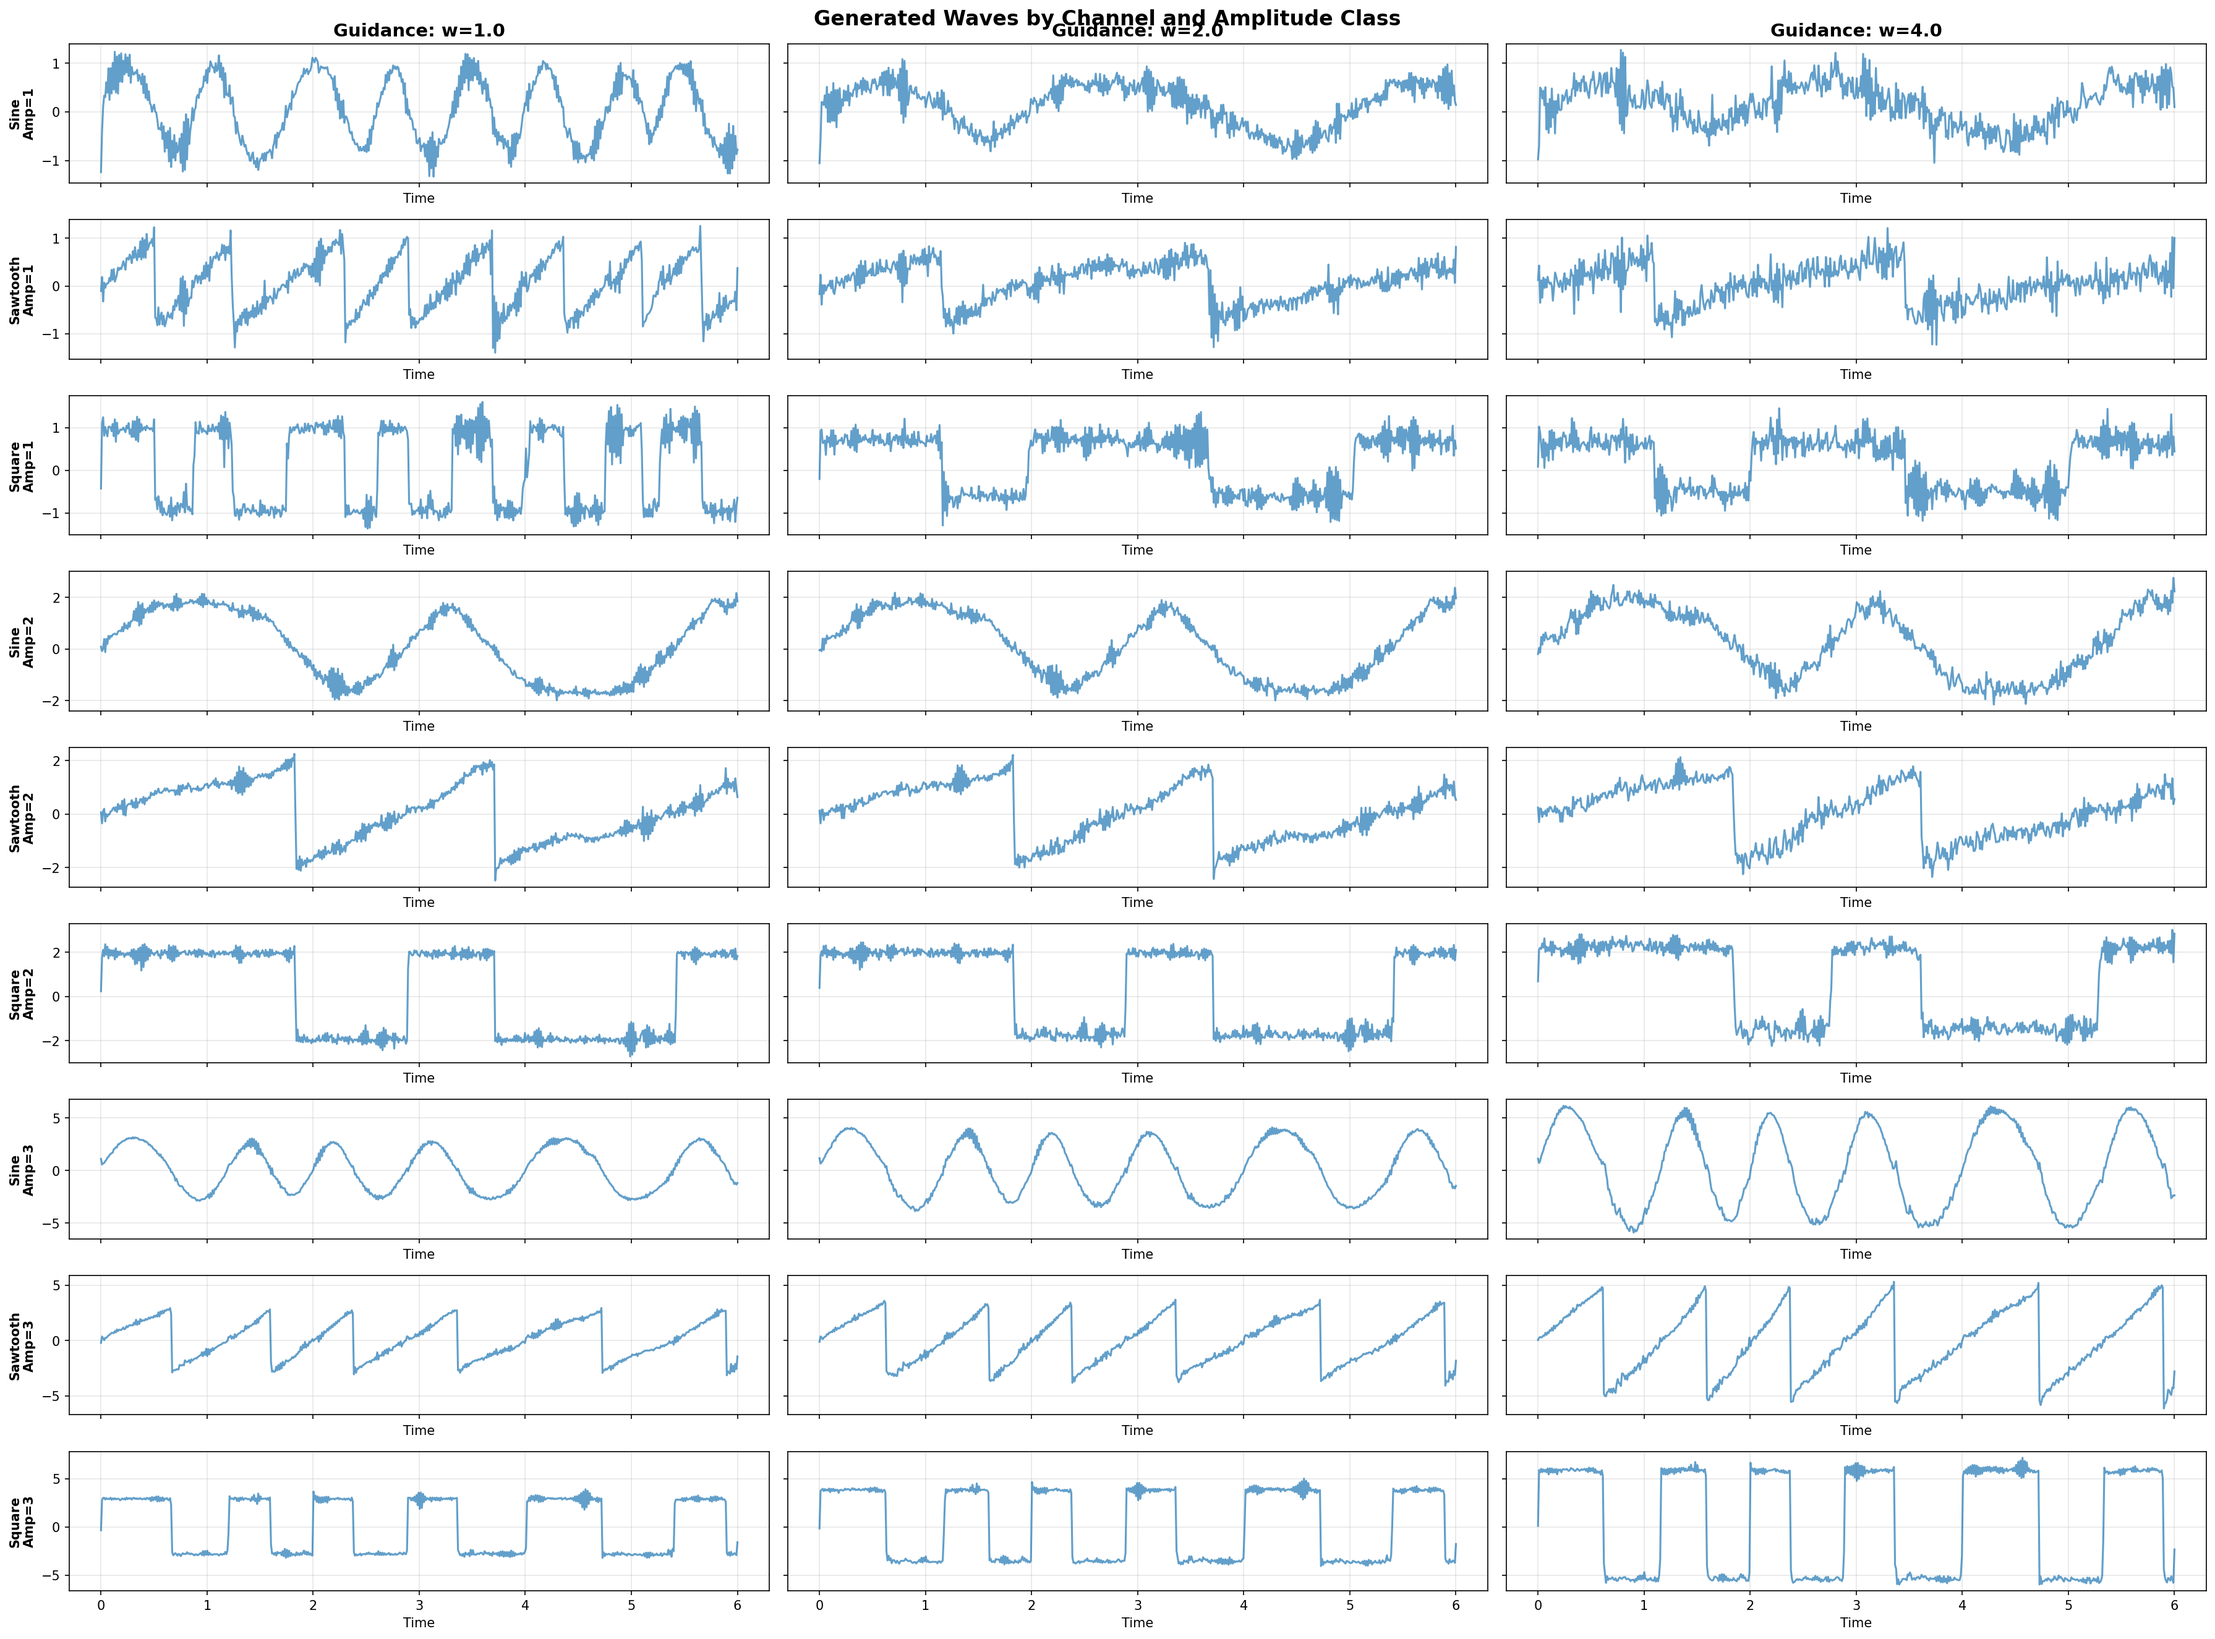
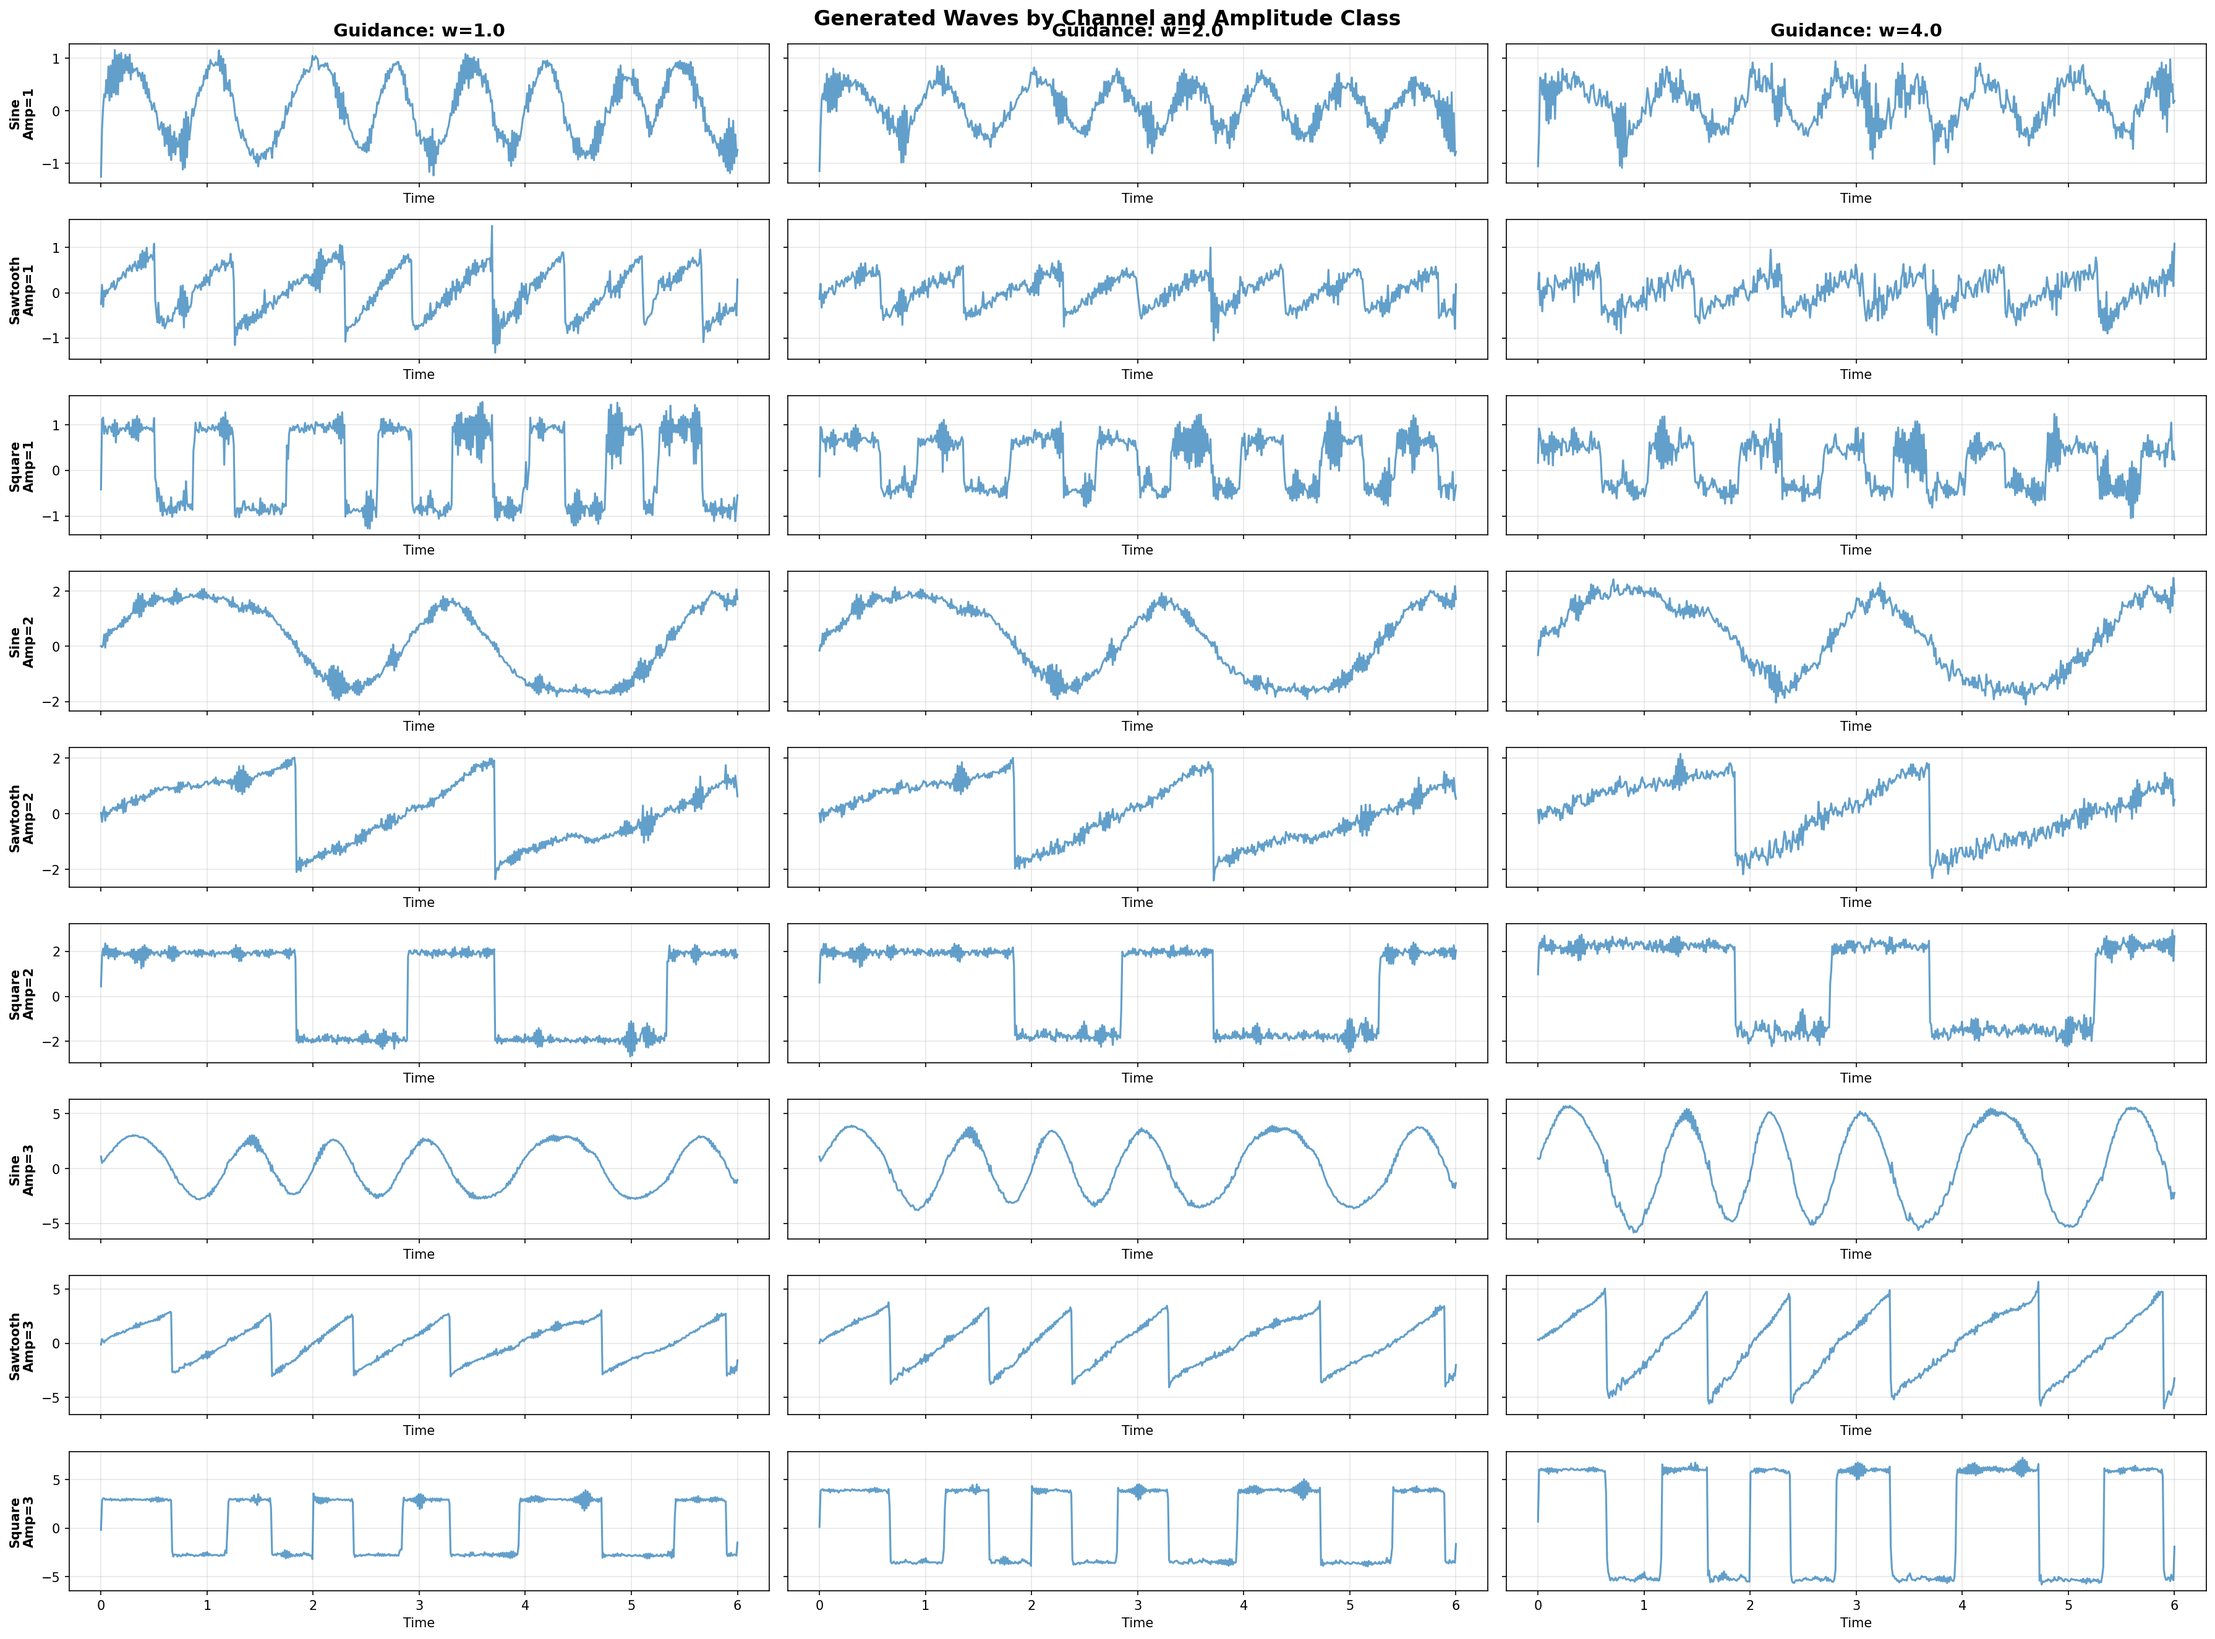
tested HAUNet on HAR dataset

diff --git a/src/diffusion_models/trainers.py b/src/diffusion_models/trainers.py
@@ -1,15 +1,15 @@
-import os
-from pathlib import Path
 from abc import ABC, abstractmethod
+from pathlib import Path
 
-import torch
 import matplotlib.pyplot as plt
+import torch
 from torch import nn
 from tqdm import tqdm
 
-from .utils.sizes import model_size_b, MiB
-from .dynamics.prob_paths import GaussianConditionalProbabilityPath
 from .dynamics.base import ConditionalVectorField
+from .dynamics.prob_paths import GaussianConditionalProbabilityPath
+from .utils.sizes import MiB, model_size_b
+
 
 class Trainer(ABC):
     def __init__(self, model: nn.Module):
@@ -23,15 +23,22 @@ class Trainer(ABC):
     def get_optimizer(self, lr: float):
         return torch.optim.Adam(self.model.parameters(), lr=lr)
 
-    def train(self, num_epochs: int, device: torch.device, lr: float = 1e-3, path: str = "training_loss.png", **kwargs) -> torch.Tensor:
+    def train(
+        self,
+        num_epochs: int,
+        device: torch.device,
+        lr: float = 1e-3,
+        path: str = "training_loss.png",
+        **kwargs,
+    ) -> torch.Tensor:
         # Report model size
         size_b = model_size_b(self.model)
-        print(f'Training model with size: {size_b / MiB:.3f} MiB')
+        print(f"Training model with size: {size_b / MiB:.3f} MiB")
 
         plot_dir = Path("loss_plots")
         plot_dir.mkdir(parents=True, exist_ok=True)
         plot_path = plot_dir / Path(path).name
-        
+
         # Start
         self.model.to(device)
         opt = self.get_optimizer(lr)
@@ -46,7 +53,7 @@ class Trainer(ABC):
             loss.backward()
             opt.step()
             losses.append(loss.item())
-            pbar.set_description(f'Epoch {idx}, loss: {loss.item():.3f}')
+            pbar.set_description(f"Epoch {idx}, loss: {loss.item():.3f}")
 
         # Finish
         self.model.eval()
@@ -56,13 +63,24 @@ class Trainer(ABC):
             plt.plot(losses)
             plt.xlabel("Step")
             plt.ylabel("Loss")
-            plt.yscale('log')
+            plt.yscale("log")
+            plt.grid(
+                True, which="both", alpha=0.3
+            )  # Add grid for both major and minor ticks
             plt.tight_layout()
             plt.savefig(plot_path)
             plt.close()
 
+
 class CFGTrainer(Trainer):
-    def __init__(self, path: GaussianConditionalProbabilityPath, model: ConditionalVectorField, eta: float, null_label, **kwargs):
+    def __init__(
+        self,
+        path: GaussianConditionalProbabilityPath,
+        model: ConditionalVectorField,
+        eta: float,
+        null_label,
+        **kwargs,
+    ):
         assert eta > 0 and eta < 1
         super().__init__(model, **kwargs)
         self.eta = eta
@@ -71,17 +89,69 @@ class CFGTrainer(Trainer):
 
     def get_train_loss(self, batch_size: int) -> torch.Tensor:
         # Step 1: Sample z,y from p_data
-        z, y = self.path.sample_conditioning_variable(batch_size) # z shape (batch_size, c, x_dim), y shape (batch_size, 1)
-        
+        z, y = self.path.sample_conditioning_variable(
+            batch_size
+        )  # z shape (batch_size, c, x_dim), y shape (batch_size, 1)
+
         # Step 2: Set each label to the null class with probability eta
         mask = torch.rand(batch_size) < self.eta
         y[mask] = self.null_label
-        
+
         # Step 3: Sample t and x
-        t = torch.rand((batch_size, )+ (1, ) * (z.ndim - 1)).to(z.device) # (batch_size, 1, x_dim)
-        x = self.path.sample_conditional_path(z, t) # (batch_size, c, x_dim)
+        t = torch.rand((batch_size,) + (1,) * (z.ndim - 1)).to(
+            z.device
+        )  # (batch_size, 1, x_dim)
+        x = self.path.sample_conditional_path(z, t)  # (batch_size, c, x_dim)
 
         # Step 4: Regress and output loss
-        u_t_theta = self.model(x, t, y) # (batch_size, c, x_dim)
-        u_t = self.path.conditional_vector_field(x, z, t) # (batch_size, c, x_dim)
+        u_t_theta = self.model(x, t, y)  # (batch_size, c, x_dim)
+        u_t = self.path.conditional_vector_field(x, z, t)  # (batch_size, c, x_dim)
         return torch.mean((u_t - u_t_theta) ** 2)
+
+    def train(
+        self,
+        num_epochs: int,
+        device: torch.device,
+        name: str,
+        lr: float = 1e-3,
+        **kwargs,
+    ) -> torch.Tensor:
+        # Report model size
+        size_b = model_size_b(self.model)
+        print(f"Training model with size: {size_b / MiB:.3f} MiB")
+
+        plot_dir = Path("plots/losses")
+        plot_dir.mkdir(parents=True, exist_ok=True)
+        plot_path = plot_dir / f"{name}.png"
+
+        # Start
+        self.model.to(device)
+        opt = self.get_optimizer(lr)
+        self.model.train()
+        losses = []
+
+        # Train loop
+        pbar = tqdm(enumerate(range(num_epochs)))
+        for idx, _ in pbar:
+            opt.zero_grad()
+            loss = self.get_train_loss(**kwargs)
+            loss.backward()
+            opt.step()
+            losses.append(loss.item())
+            pbar.set_description(f"Epoch {idx}, loss: {loss.item():.3f}")
+
+        # Finish
+        self.model.eval()
+
+        if losses:
+            plt.clf()
+            plt.plot(losses)
+            plt.xlabel("Step")
+            plt.ylabel("Loss")
+            plt.yscale("log")
+            plt.grid(
+                True, which="both", alpha=0.3
+            )  # Add grid for both major and minor ticks
+            plt.tight_layout()
+            plt.savefig(plot_path)
+            plt.close()

diff --git a/src/diffusion_models/models/haunet/standard_haunet.py b/src/diffusion_models/models/haunet/standard_haunet.py
@@ -1,11 +1,14 @@
 import torch
 
 from diffusion_models.architectures.HAUNet import HAUNet
+from diffusion_models.data.loaders import DataSampler
 from diffusion_models.data.synthetic import WaveSampler
 from diffusion_models.dynamics.prob_paths import GaussianConditionalProbabilityPath
 from diffusion_models.dynamics.schedules import LinearAlpha, LinearBeta
 from diffusion_models.trainers import CFGTrainer
-from diffusion_models.utils.visualizations import visualize_generated_waves
+from diffusion_models.utils.visualizations import (
+    visualize_generated_data_samples,
+)
 
 device = torch.device("cuda" if torch.cuda.is_available() else "cpu")
 
@@ -17,6 +20,13 @@ path = GaussianConditionalProbabilityPath(
     beta=LinearBeta(),
 ).to(device)
 
+activity_path = GaussianConditionalProbabilityPath(
+    p_data=DataSampler(dataset="wisdm", window_time=6.0),
+    p_simple_shape=[3, 100],
+    alpha=LinearAlpha(),
+    beta=LinearBeta(),
+).to(device)
+
 # visualize_wave_path()
 
 # initialize model
@@ -24,12 +34,18 @@ net = HAUNet(
     num_residual_layers=2,
     num_encoder_decoder_layers=3,
     cond_dim=64,
+    num_classes=6,
 )
 
-trainer = CFGTrainer(path=path, model=net, eta=0.1, null_label=0)
-trainer.train(num_epochs=1000, device=device, lr=1e-3, batch_size=50)
+trainer = CFGTrainer(path=activity_path, model=net, eta=0.1, null_label=6)
+trainer.train(num_epochs=1000, device=device, lr=1e-3, batch_size=50, name="HAUNet")
 
-visualize_generated_waves(model=net, guidance_scales=(1.0, 2.0, 4.0))
+# visualize_generated_waves(
+#     model=net, guidance_scales=(1.0, 2.0, 4.0), name="HAUNet_generated_waves"
+# )
+visualize_generated_data_samples(
+    model=net, guidance_scales=(1.0, 2.0, 4.0), name="HAUNet_generated_data_samples"
+)
 
 # model size: 7 MiB
 # trains very slowly at around 1.1 it/s

diff --git a/src/diffusion_models/utils/visualizations.py b/src/diffusion_models/utils/visualizations.py
@@ -1,3 +1,5 @@
+import os
+
 import matplotlib.pyplot as plt
 import torch
 from torchvision.utils import make_grid
@@ -396,7 +398,6 @@ def visualize_generated_waves(
         - guidance_scales: tuple of guidance scale values to test
         - null_class: the null class label for classifier-free guidance
     """
-    import os
 
     model.eval()
 
@@ -487,13 +488,13 @@ def visualize_generated_waves(
     # Save the plot
     save_path = os.path.join(save_dir, f"{name}.png")
     plt.savefig(save_path, dpi=150, bbox_inches="tight")
-    print(f"Plot saved to {save_path}")
 
     plt.show()
 
 
 def visualize_generated_data_samples(
     model: ConditionalVectorField,
+    name: str,
     samples_per_activity: int = 1,
     num_timesteps: int = 100,
     guidance_scales=(1.0,),
@@ -523,7 +524,7 @@ def visualize_generated_data_samples(
     }
 
     # Infer signal length from the WISDM sampler
-    sampler = DataSampler(dataset="wisdm")
+    sampler = DataSampler(dataset="wisdm", window_time=6.0)
 
     # Get one sample to infer shape
     sample_data, _ = sampler.sample(1)
@@ -611,4 +612,15 @@ def visualize_generated_data_samples(
         fontweight="bold",
     )
     plt.tight_layout()
+
+    # Create directory if it doesn't exist
+    save_dir = "plots/signals"
+    os.makedirs(save_dir, exist_ok=True)
+
+    # Save the plot
+    save_path = os.path.join(save_dir, f"{name}.png")
+    plt.savefig(save_path, dpi=150, bbox_inches="tight")
+
+    plt.show()
+
     plt.show()

diff --git a/src/diffusion_models/models/tfilm/tfilm_cbam.py b/src/diffusion_models/models/tfilm/tfilm_cbam.py
@@ -36,7 +36,9 @@ net = TFiLMUNetCBAM(
 )
 
 trainer = CFGTrainer(path=path, model=net, eta=0.1, null_label=6)
-trainer.train(num_epochs=1000, device=device, lr=1e-3, batch_size=250)
+trainer.train(
+    num_epochs=1000, device=device, lr=1e-3, batch_size=250, name="TFiLMUNetCBAM"
+)
 
 # visualize generated waves
 visualize_generated_waves(

diff --git a/src/diffusion_models/architectures/HAUNet.py b/src/diffusion_models/architectures/HAUNet.py
@@ -24,7 +24,7 @@ class HAUNet(UNet):
         cond_dim: int,
         num_residual_layers: int,
         num_encoder_decoder_layers: int,
-        num_classes: int = 3,
+        num_classes: int,
         input_channels: int = 3,
         initial_features: int = 8,
     ):
